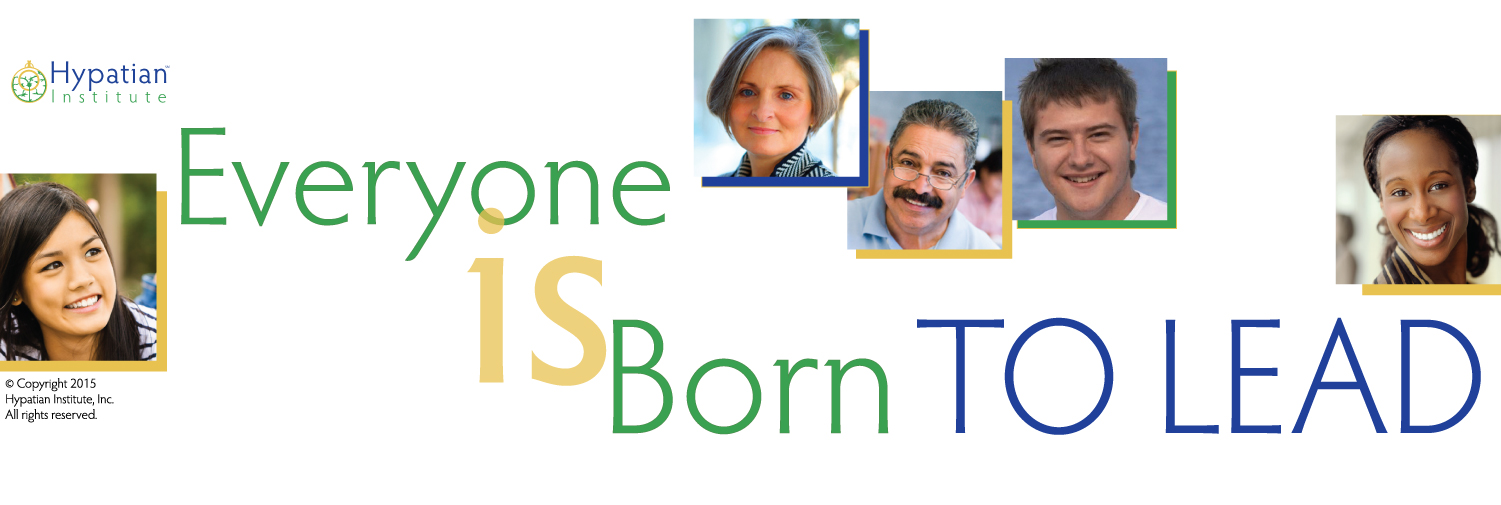
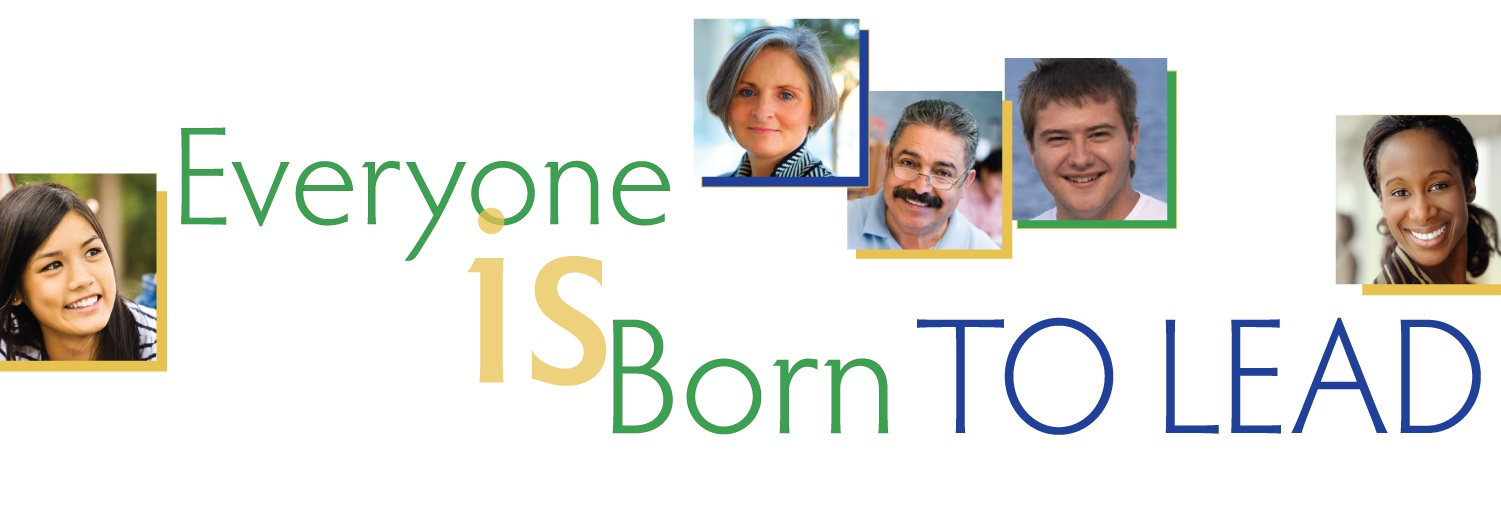
Home Page Updates and Social Media
- social media now opens in new tab
- removed copyright and logo from home page banner
- home page banner is smaller
- changed green lines to multicolored lines
- tweets section is larger (looks awk)

diff --git a/index.html b/index.html
@@ -149,6 +149,7 @@ License URL: http://creativecommons.org/licenses/by/3.0/
 				<div class="clearfix"> </div>
 			</div>
 		</div>
+		<i class="line"> </i>
 	</div>
 <!-- show-case -->
 <!-- made -->
@@ -170,6 +171,7 @@ License URL: http://creativecommons.org/licenses/by/3.0/
 				</div>
 				</div>
 		</div>
+		<i class="line"> </i>
 	</div>
 <!-- made -->
 <!-- recent
@@ -402,17 +404,19 @@ vivamus -->
 						</ul>
 				</div>
                 <div class="col-md-4 confo">
-                    <a class="twitter-timeline" href="https://twitter.com/HypatianInst" data-widget-id="589293831415341056">Tweets by @HypatianInst</a> <script>!function(d,s,id){var js,fjs=d.getElementsByTagName(s)[0],p=/^http:/.test(d.location)?'http':'https';if(!d.getElementById(id)){js=d.createElement(s);js.id=id;js.src=p+"://platform.twitter.com/widgets.js";fjs.parentNode.insertBefore(js,fjs);}}(document,"script","twitter-wjs");</script>
+                    <!-- <a class="twitter-timeline" href="https://twitter.com/HypatianInst" data-widget-id="589293831415341056">Tweets by @HypatianInst</a> <script>!function(d,s,id){var js,fjs=d.getElementsByTagName(s)[0],p=/^http:/.test(d.location)?'http':'https';if(!d.getElementById(id)){js=d.createElement(s);js.id=id;js.src=p+"://platform.twitter.com/widgets.js";fjs.parentNode.insertBefore(js,fjs);}}(document,"script","twitter-wjs");</script> -->
+                   <a class="twitter-timeline" href="https://twitter.com/HypatianInst" data-widget-id="602183302657769474">Tweets by @HypatianInst</a>
+<script>!function(d,s,id){var js,fjs=d.getElementsByTagName(s)[0],p=/^http:/.test(d.location)?'http':'https';if(!d.getElementById(id)){js=d.createElement(s);js.id=id;js.src=p+"://platform.twitter.com/widgets.js";fjs.parentNode.insertBefore(js,fjs);}}(document,"script","twitter-wjs");</script>
                 </div>
 				<div class="col-md-4 social">
 					<h4>We’re social:</h4>
 						<ul>
-							<li><a href="https://twitter.com/hypatianinst"><i class="twiter"> </i></a></li>
-							<li><a href="https://www.facebook.com/HypatianInstitute"><i class="facebk"> </i></a></li>
+							<li><a target="_blank" href="https://twitter.com/hypatianinst"><i class="twiter"> </i></a></li>
+							<li><a target="_blank" href="https://www.facebook.com/HypatianInstitute"><i class="facebk"> </i></a></li>
 							<!--<li><a href="#"><i class="googpl"> </i></a></li>
 							<li><a href="#"><i class="pp"> </i></a></li>
 							<li><a href="#"><i class="ttt"> </i></a></li>-->
-							<li><a href="https://www.linkedin.com/company/hypatian-institute-inc-"><i class="linkd"> </i></a></li>
+							<li><a target="_blank" href="https://www.linkedin.com/company/hypatian-institute-inc-"><i class="linkd"> </i></a></li>
 							<!--<li><a href="#"><i class="youtube"> </i></a></li>
 							<li><a href="#"><i class="cat"> </i></a></li>
 							<li><a href="#"><i class="ol"> </i></a></li>

diff --git a/about.html b/about.html
@@ -240,12 +240,12 @@ License URL: http://creativecommons.org/licenses/by/3.0/
 				<div class="col-md-4 social">
 					<h4>We’re social:</h4>
 						<ul>
-							<li><a href="https://twitter.com/hypatianinst"><i class="twiter"> </i></a></li>
-							<li><a href="https://www.facebook.com/HypatianInstitute"><i class="facebk"> </i></a></li>
+							<li><a target="_blank" href="https://twitter.com/hypatianinst"><i class="twiter"> </i></a></li>
+							<li><a target="_blank" href="https://www.facebook.com/HypatianInstitute"><i class="facebk"> </i></a></li>
 							<!--<li><a href="#"><i class="googpl"> </i></a></li>
 							<li><a href="#"><i class="pp"> </i></a></li>
 							<li><a href="#"><i class="ttt"> </i></a></li>-->
-							<li><a href="https://www.linkedin.com/company/hypatian-institute-inc-"><i class="linkd"> </i></a></li>
+							<li><a target="_blank" href="https://www.linkedin.com/company/hypatian-institute-inc-"><i class="linkd"> </i></a></li>
 							<!--<li><a href="#"><i class="youtube"> </i></a></li>
 							<li><a href="#"><i class="cat"> </i></a></li>
 							<li><a href="#"><i class="ol"> </i></a></li>

diff --git a/contact.html b/contact.html
@@ -189,12 +189,12 @@ License URL: http://creativecommons.org/licenses/by/3.0/
 				<div class="col-md-4 social">
 					<h4>We’re social:</h4>
 						<ul>
-							<li><a href="https://twitter.com/hypatianinst"><i class="twiter"> </i></a></li>
-							<li><a href="https://www.facebook.com/HypatianInstitute"><i class="facebk"> </i></a></li>
+							<li><a target="_blank" href="https://twitter.com/hypatianinst"><i class="twiter"> </i></a></li>
+							<li><a target="_blank" href="https://www.facebook.com/HypatianInstitute"><i class="facebk"> </i></a></li>
 							<!--<li><a href="#"><i class="googpl"> </i></a></li>
 							<li><a href="#"><i class="pp"> </i></a></li>
 							<li><a href="#"><i class="ttt"> </i></a></li>-->
-							<li><a href="https://www.linkedin.com/company/hypatian-institute-inc-"><i class="linkd"> </i></a></li>
+							<li><a target="_blank" href="https://www.linkedin.com/company/hypatian-institute-inc-"><i class="linkd"> </i></a></li>
 							<!--<li><a href="#"><i class="youtube"> </i></a></li>
 							<li><a href="#"><i class="cat"> </i></a></li>
 							<li><a href="#"><i class="ol"> </i></a></li>

diff --git a/membership.html b/membership.html
@@ -206,12 +206,12 @@ License URL: http://creativecommons.org/licenses/by/3.0/
 				<div class="col-md-4 social">
 					<h4>We’re social:</h4>
 						<ul>
-							<li><a href="https://twitter.com/hypatianinst"><i class="twiter"> </i></a></li>
-							<li><a href="https://www.facebook.com/HypatianInstitute"><i class="facebk"> </i></a></li>
+							<li><a target="_blank" href="https://twitter.com/hypatianinst"><i class="twiter"> </i></a></li>
+							<li><a target="_blank" href="https://www.facebook.com/HypatianInstitute"><i class="facebk"> </i></a></li>
 							<!--<li><a href="#"><i class="googpl"> </i></a></li>
 							<li><a href="#"><i class="pp"> </i></a></li>
 							<li><a href="#"><i class="ttt"> </i></a></li>-->
-							<li><a href="https://www.linkedin.com/company/hypatian-institute-inc-"><i class="linkd"> </i></a></li>
+							<li><a target="_blank" href="https://www.linkedin.com/company/hypatian-institute-inc-"><i class="linkd"> </i></a></li>
 							<!--<li><a href="#"><i class="youtube"> </i></a></li>
 							<li><a href="#"><i class="cat"> </i></a></li>
 							<li><a href="#"><i class="ol"> </i></a></li>

diff --git a/partnership.html b/partnership.html
@@ -200,12 +200,12 @@ License URL: http://creativecommons.org/licenses/by/3.0/
 				<div class="col-md-4 social">
 					<h4>We’re social:</h4>
 						<ul>
-							<li><a href="https://twitter.com/hypatianinst"><i class="twiter"> </i></a></li>
-							<li><a href="https://www.facebook.com/HypatianInstitute"><i class="facebk"> </i></a></li>
+							<li><a target="_blank" href="https://twitter.com/hypatianinst"><i class="twiter"> </i></a></li>
+							<li><a target="_blank" href="https://www.facebook.com/HypatianInstitute"><i class="facebk"> </i></a></li>
 							<!--<li><a href="#"><i class="googpl"> </i></a></li>
 							<li><a href="#"><i class="pp"> </i></a></li>
 							<li><a href="#"><i class="ttt"> </i></a></li>-->
-							<li><a href="https://www.linkedin.com/company/hypatian-institute-inc-"><i class="linkd"> </i></a></li>
+							<li><a target="_blank" href="https://www.linkedin.com/company/hypatian-institute-inc-"><i class="linkd"> </i></a></li>
 							<!--<li><a href="#"><i class="youtube"> </i></a></li>
 							<li><a href="#"><i class="cat"> </i></a></li>
 							<li><a href="#"><i class="ol"> </i></a></li>

diff --git a/portfolio.html b/portfolio.html
@@ -239,12 +239,12 @@ License URL: http://creativecommons.org/licenses/by/3.0/
 				<div class="col-md-4 social">
 					<h4>We’re social:</h4>
 						<ul>
-							<li><a href="https://twitter.com/hypatianinst"><i class="twiter"> </i></a></li>
-							<li><a href="https://www.facebook.com/HypatianInstitute"><i class="facebk"> </i></a></li>
+							<li><a target="_blank" href="https://twitter.com/hypatianinst"><i class="twiter"> </i></a></li>
+							<li><a target="_blank" href="https://www.facebook.com/HypatianInstitute"><i class="facebk"> </i></a></li>
 							<!--<li><a href="#"><i class="googpl"> </i></a></li>
 							<li><a href="#"><i class="pp"> </i></a></li>
 							<li><a href="#"><i class="ttt"> </i></a></li>-->
-							<li><a href="https://www.linkedin.com/company/hypatian-institute-inc-"><i class="linkd"> </i></a></li>
+							<li><a target="_blank" href="https://www.linkedin.com/company/hypatian-institute-inc-"><i class="linkd"> </i></a></li>
 							<!--<li><a href="#"><i class="youtube"> </i></a></li>
 							<li><a href="#"><i class="cat"> </i></a></li>
 							<li><a href="#"><i class="ol"> </i></a></li>

diff --git a/programs.html b/programs.html
@@ -166,12 +166,12 @@ License URL: http://creativecommons.org/licenses/by/3.0/
 				<div class="col-md-4 social">
 					<h4>We’re social:</h4>
 						<ul>
-							<li><a href="https://twitter.com/hypatianinst"><i class="twiter"> </i></a></li>
-							<li><a href="https://www.facebook.com/HypatianInstitute"><i class="facebk"> </i></a></li>
+							<li><a target="_blank" href="https://twitter.com/hypatianinst"><i class="twiter"> </i></a></li>
+							<li><a target="_blank" href="https://www.facebook.com/HypatianInstitute"><i class="facebk"> </i></a></li>
 							<!--<li><a href="#"><i class="googpl"> </i></a></li>
 							<li><a href="#"><i class="pp"> </i></a></li>
 							<li><a href="#"><i class="ttt"> </i></a></li>-->
-							<li><a href="https://www.linkedin.com/company/hypatian-institute-inc-"><i class="linkd"> </i></a></li>
+							<li><a target="_blank" href="https://www.linkedin.com/company/hypatian-institute-inc-"><i class="linkd"> </i></a></li>
 							<!--<li><a href="#"><i class="youtube"> </i></a></li>
 							<li><a href="#"><i class="cat"> </i></a></li>
 							<li><a href="#"><i class="ol"> </i></a></li>

diff --git a/css/style.css b/css/style.css
@@ -197,7 +197,7 @@ ul a:focus {
 	-o-background-size: cover;
 	-ms-background-size: cover;
 	min-height: 500px;
-	background-size: 100%;
+	background-size: 90%;
     background-position: center;
 }
 .top-slide h2 {
@@ -331,7 +331,7 @@ ul.wmuSliderPagination {
 }
 .cae-top {
 	padding: 7em 0;
-	border-bottom: 1px solid #3FD91C;
+	/*border-bottom: 1px solid #3FD91C;*/
 }
 i.people {
 	width: 126px;
